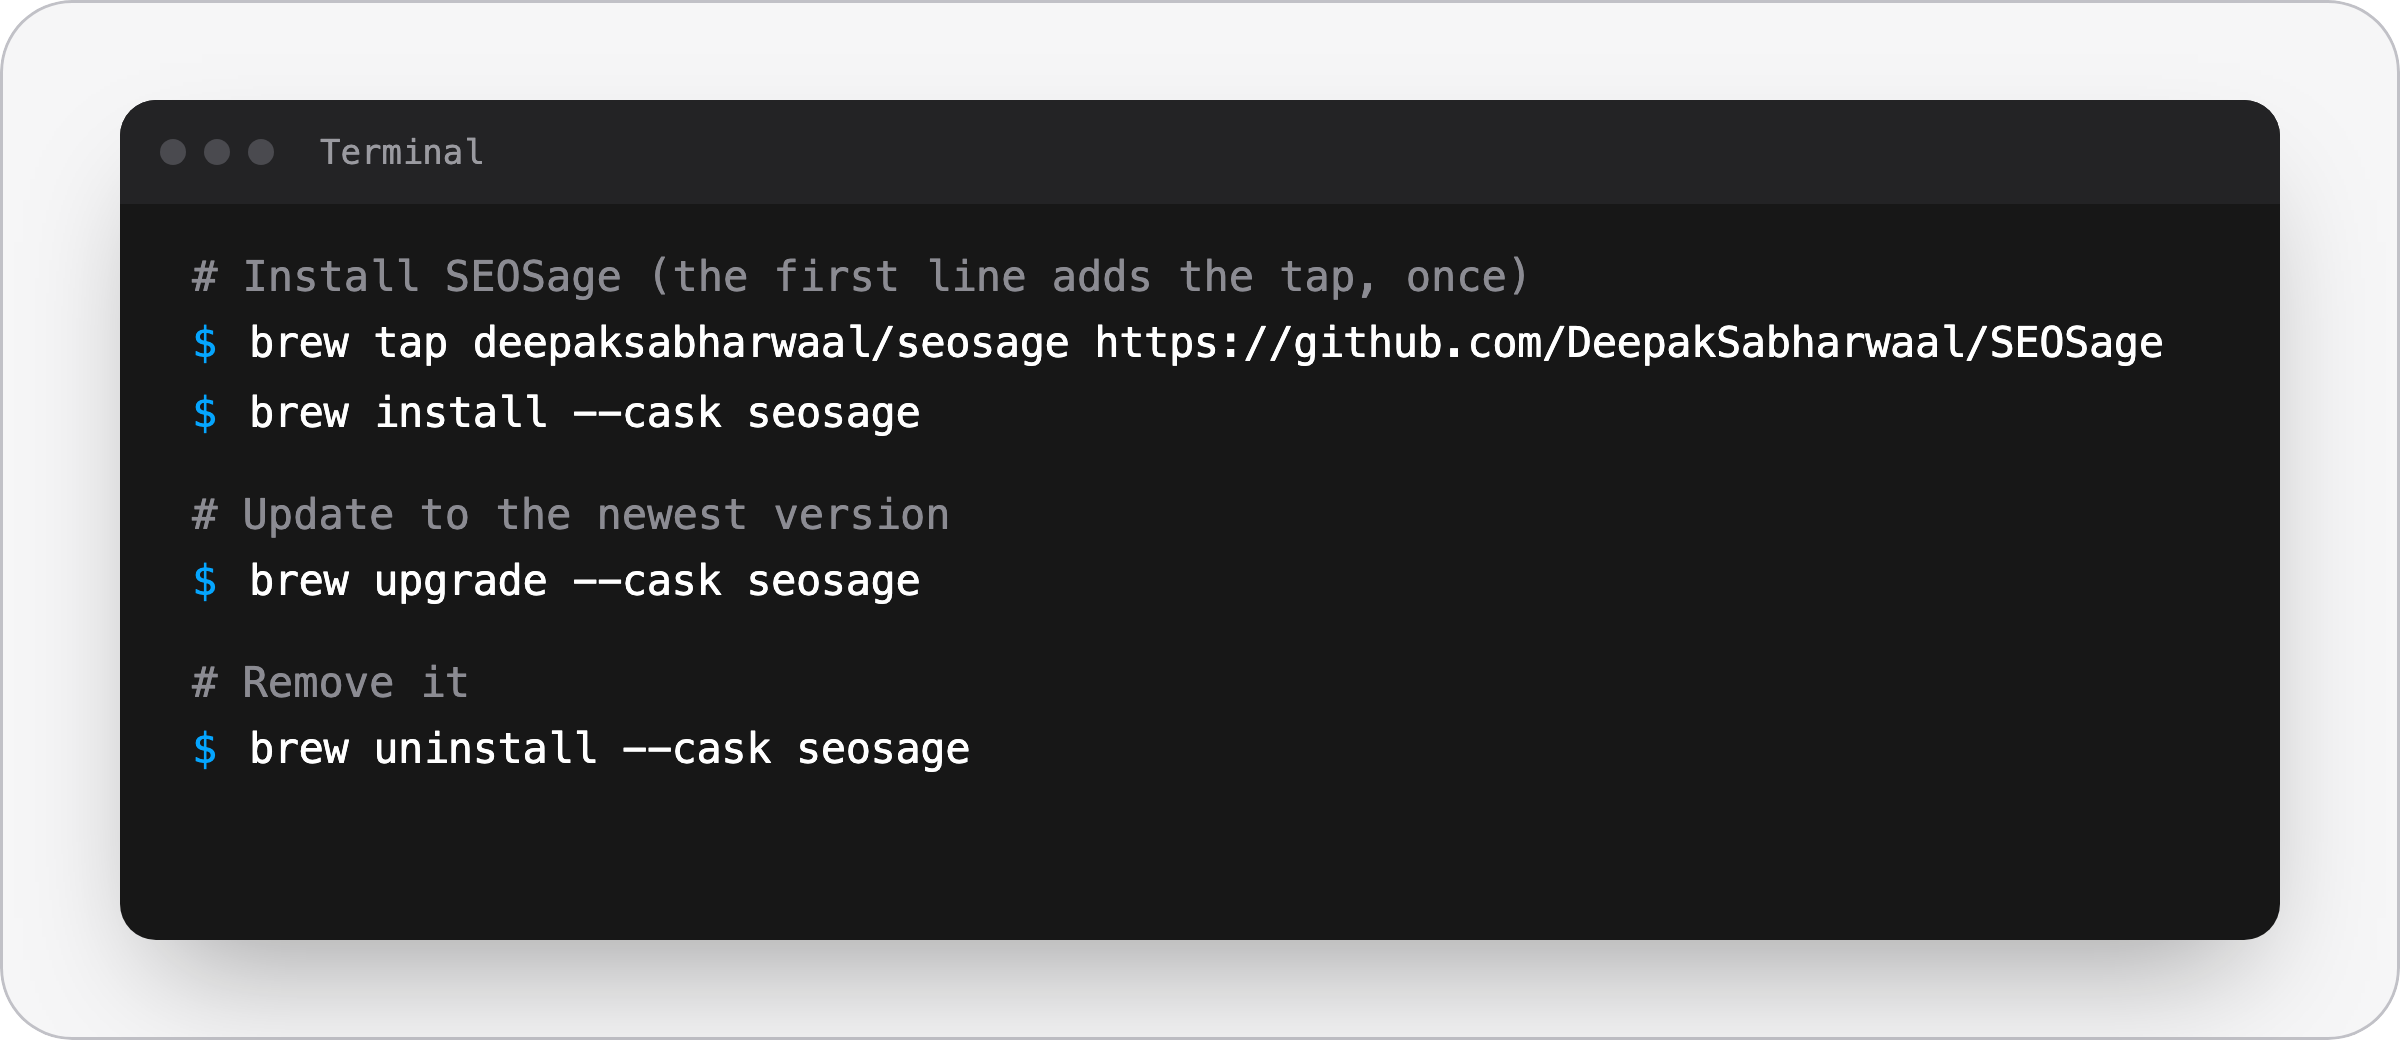
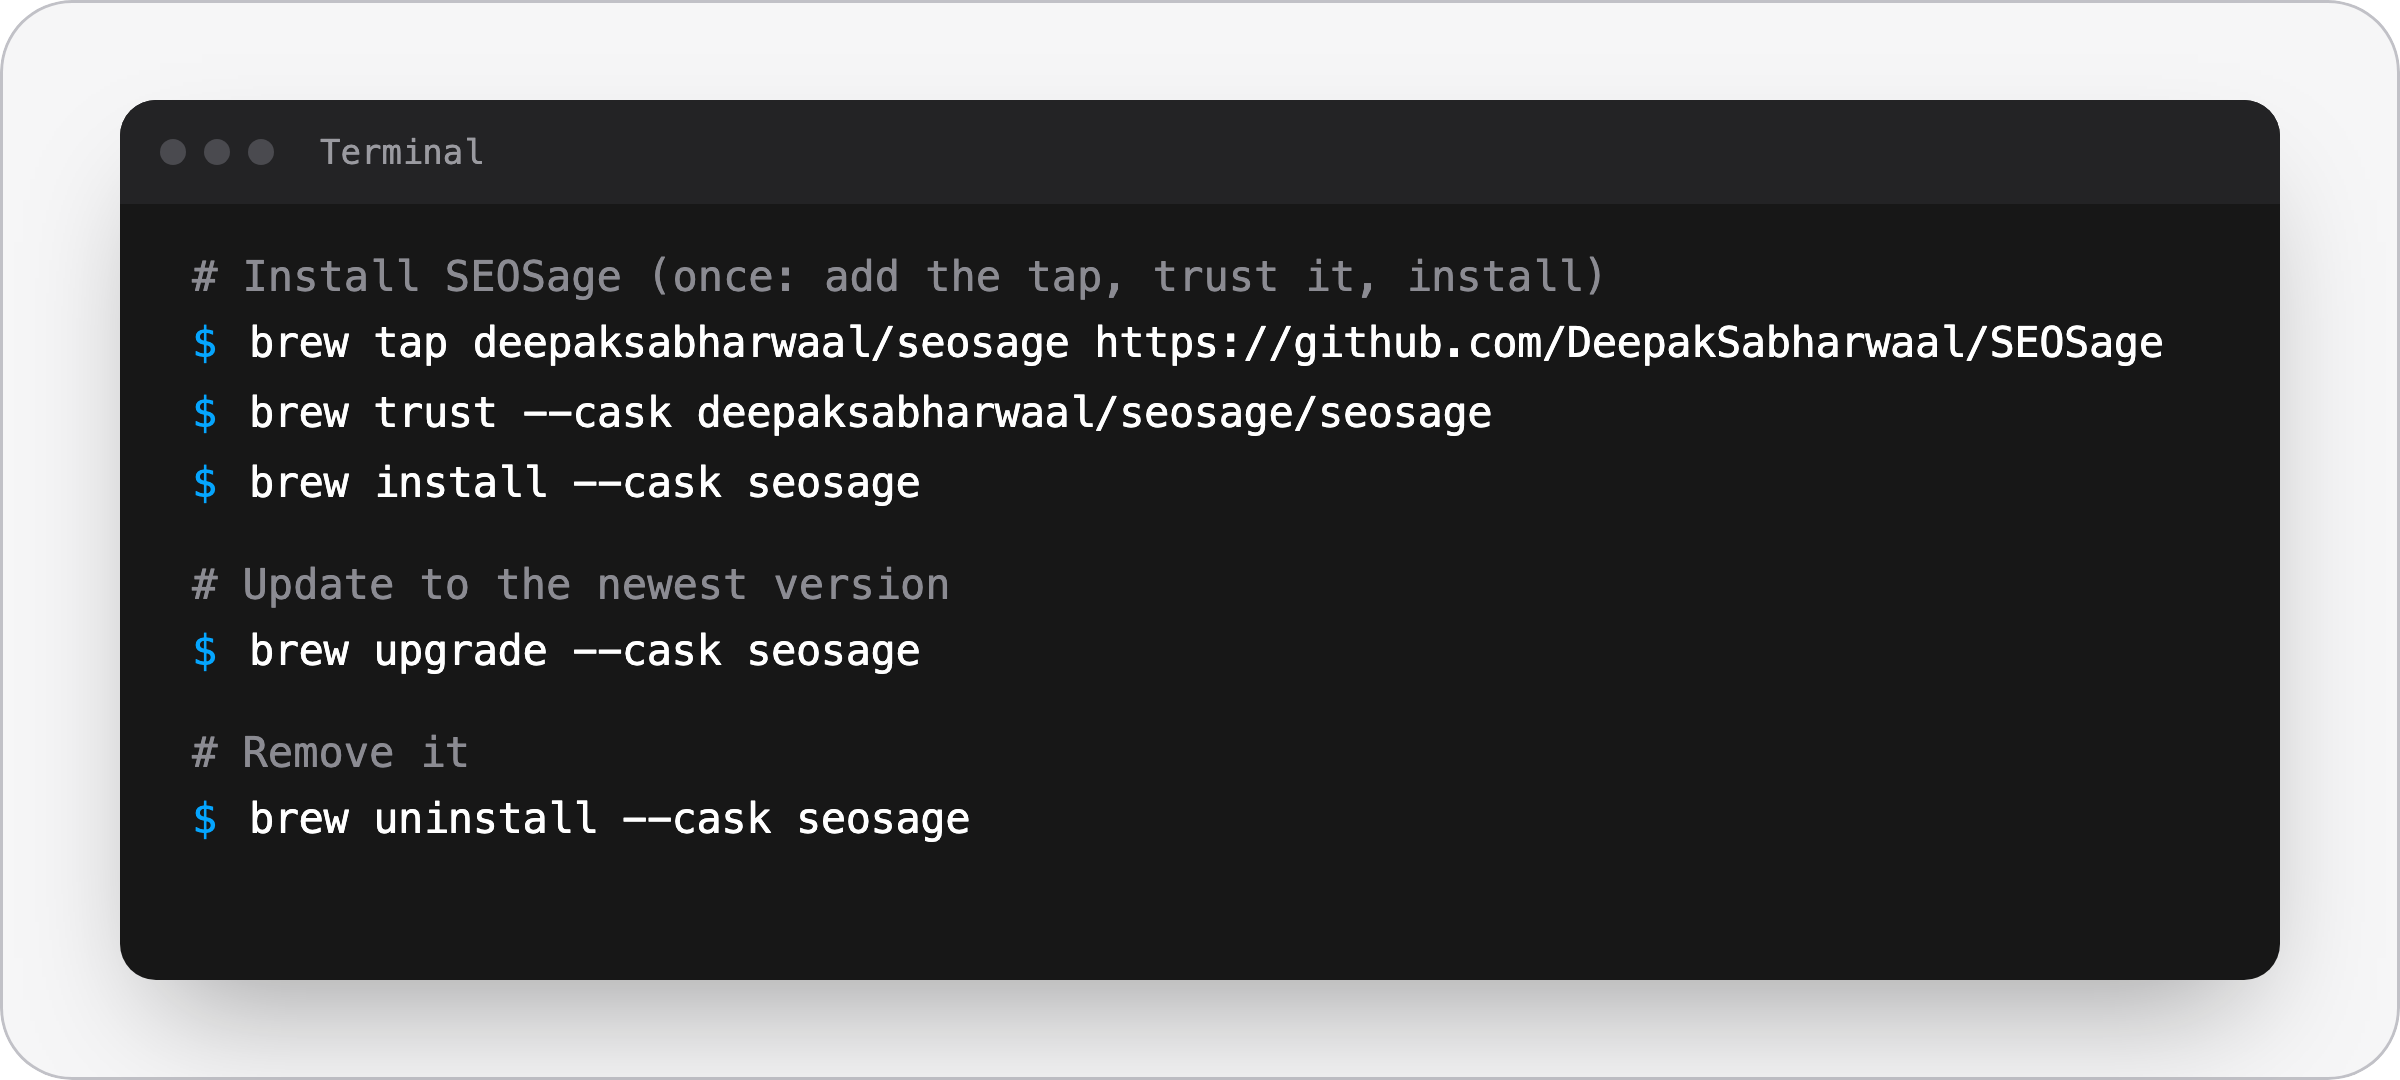
Add the brew trust step (Homebrew 7), refresh graphics

diff --git a/README.md b/README.md
@@ -1,5 +1,5 @@
 <p align="center">
-  <a href="https://seosage.co/"><img src="assets/banner.png?v=4" alt="SEOSage app for Mac: install the desktop SEO audit software with Homebrew" width="100%"></a>
+  <a href="https://seosage.co/"><img src="assets/banner.png?v=5" alt="SEOSage app for Mac: install the desktop SEO audit software with Homebrew" width="100%"></a>
 </p>
 
 # SEOSage app for Mac: Homebrew install
@@ -10,12 +10,15 @@ This repository is the official [Homebrew](https://brew.sh) tap (the `brew tap` 
 
 ## Install
 
-<p align="center"><img src="assets/install.png?v=4" alt="Terminal showing the brew commands to install, update and remove the SEOSage app" width="80%"></p>
+<p align="center"><img src="assets/install.png?v=5" alt="Terminal showing the brew commands to install, update and remove the SEOSage app" width="80%"></p>
 
 ```sh
 brew tap deepaksabharwaal/seosage https://github.com/DeepakSabharwaal/SEOSage
+brew trust --cask deepaksabharwaal/seosage/seosage
 brew install --cask seosage
 ```
+
+The `brew trust` line is needed on Homebrew 7 and newer, which asks you to approve casks from outside the official list. On an older Homebrew without that command, skip it.
 
 Update later:
 
@@ -35,9 +38,9 @@ Works on Apple Silicon (M1, M2, M3, M4) and Intel Macs. Homebrew picks the right
 
 Crawl a whole site, see every issue grouped by type, click one to see the pages it affects, then export a report for your client. The screens below are from a real crawl of [marketingly.org](https://marketingly.org/).
 
-<p align="center"><img src="assets/screen-issues.png?v=4" alt="SEOSage app Issues screen listing errors, warnings and notices from a full site crawl" width="90%"></p>
+<p align="center"><img src="assets/screen-issues.png?v=5" alt="SEOSage app Issues screen listing errors, warnings and notices from a full site crawl" width="90%"></p>
 
-<p align="center"><img src="assets/screen-report.png?v=4" alt="SEOSage app Reports screen with site health score and export to CSV, PDF or PowerPoint" width="90%"></p>
+<p align="center"><img src="assets/screen-report.png?v=5" alt="SEOSage app Reports screen with site health score and export to CSV, PDF or PowerPoint" width="90%"></p>
 
 ## Licence
 
